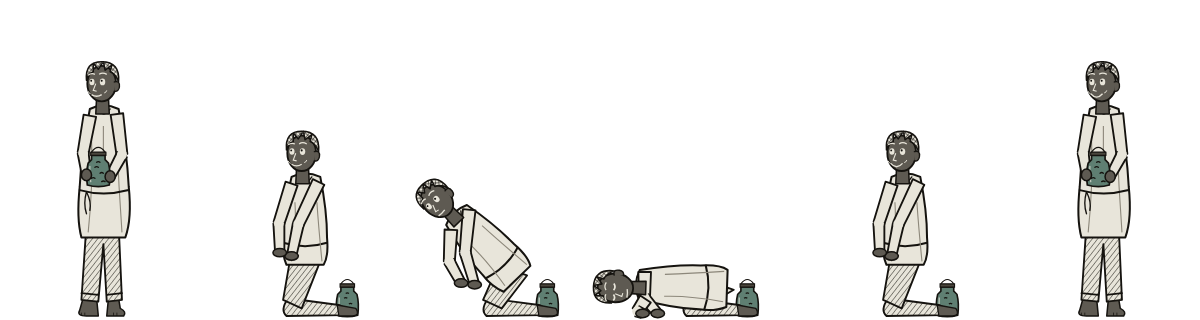
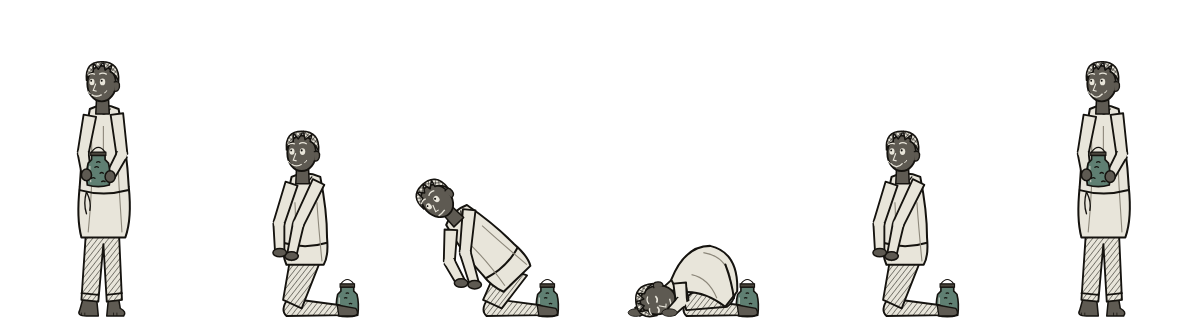
Éloi, front-terre : une prosternation, pas une chute (retour du Game Director)
À l'image 4, il reste à genoux, assis sur les talons, le dos rond, le front contre la terre
et les mains à plat de chaque côté de la tête.

Claude-Session: https://claude.ai/code/session_011WbKxBfoJbcyebqrVqkEA5

Changed region(s): [[0.4933, 0.75, 0.6167, 1.0]]

diff --git a/tools/gen_chr_pnj_e6.py b/tools/gen_chr_pnj_e6.py
@@ -210,12 +210,33 @@ def eloi_a_genoux(i: int, incline: float, sourire: int = 1, bocal_pose: bool = T
     return "".join(out)
 
 
+def eloi_prosterne(i: int) -> str:
+    """La prosternation : toujours à genoux, assis sur les talons, le dos rond, le front posé
+    contre la terre et les mains à plat de chaque côté de la tête. Pas une chute."""
+    s = SOUFFLE[i] * .3
+    return (bocal(176, 404, .95)
+            # la main de derrière, à plat au-delà de la tête
+            + g(manche((100, 360 + s), (70, 386), (46, 400)) + f'<ellipse cx="44" cy="401" rx="9" ry="4.5" fill="{PEAU}"/>')
+            # tibias et pieds sous lui, cuisses repliées : assis sur les talons
+            + f'<path d="M106 384 L166 392 Q174 394 172 404 L104 405 Q96 398 106 384 Z" fill="url(#h1)" {ST} stroke-width="2.2"/>'
+            + f'<path d="M164 392 L186 396 Q192 404 182 405 L166 405 Z" fill="{PEAU}" {ST} stroke-width="1.6"/>'
+            + f'<path d="M160 360 Q166 384 152 394 L104 398 Q98 386 110 378 Z" fill="url(#h1)" {ST} stroke-width="2.2"/>'
+            # le dos rond de la blouse, de la hanche aux épaules penchées vers le sol
+            + f'<path d="M164 376 Q166 330 132 {322 + s:.1f} Q102 {322 + s:.1f} 86 {362 + s:.1f} L94 {378 + s:.1f} Q120 {372 + s:.1f} 150 394 Z" fill="{PAPIER}" {ST} stroke-width="2.4"/>'
+            + f'<path d="M156 360 Q150 334 124 {330 + s:.1f} M140 384 Q130 360 110 {356 + s:.1f}" fill="none" stroke="{MINE}" stroke-width="1.3"/>'
+            + f'<path d="M150 344 Q158 366 160 384" fill="none" {ST} stroke-width="2.4"/>'
+            # la tête, le front contre la terre, le visage vers le sol, les yeux fermés
+            + f'<g transform="translate(-52 {256 + s:.1f}) rotate(-100 122 130)">{tete_eloi(0, 0, True)}</g>'
+            # la main de devant, à plat de ce côté-ci de la tête
+            + g(manche((96, 366 + s), (98, 388), (86, 400)) + f'<ellipse cx="84" cy="401" rx="9" ry="4.5" fill="{PEAU}"/>'))
+
+
 def eloi_front_terre() -> list[str]:
     """Il pose le bocal, s'agenouille, met le front contre la terre, se redresse et sourit."""
     return [eloi(0),
             eloi_a_genoux(1, 0, 1),
             eloi_a_genoux(2, 44, 0),
-            eloi_a_genoux(0, 88, 0),
+            eloi_prosterne(0),
             eloi_a_genoux(1, 0, 2),
             eloi(0, sourire=2)]
 
